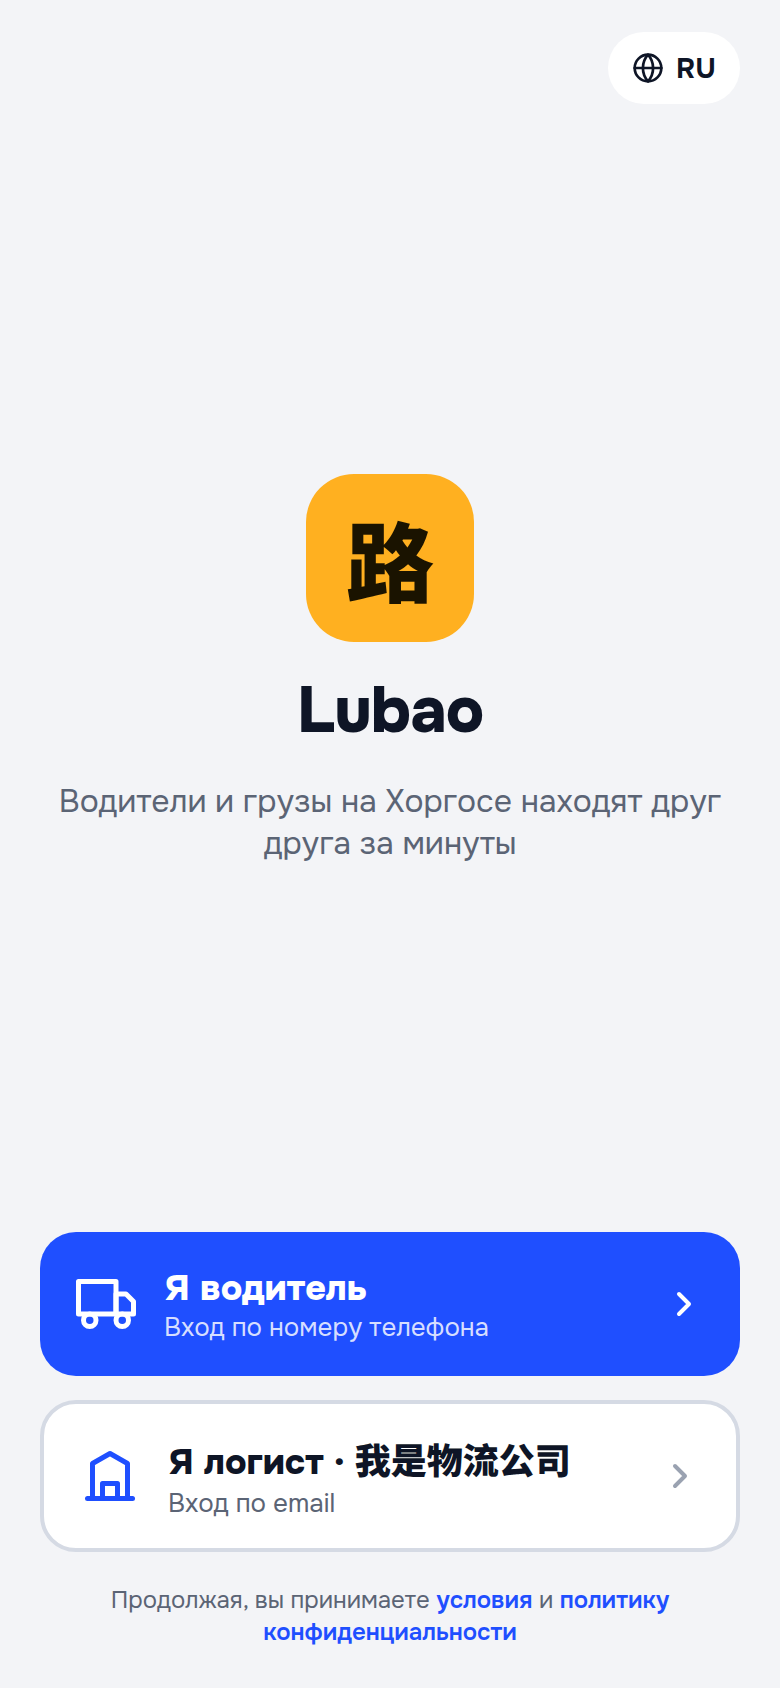
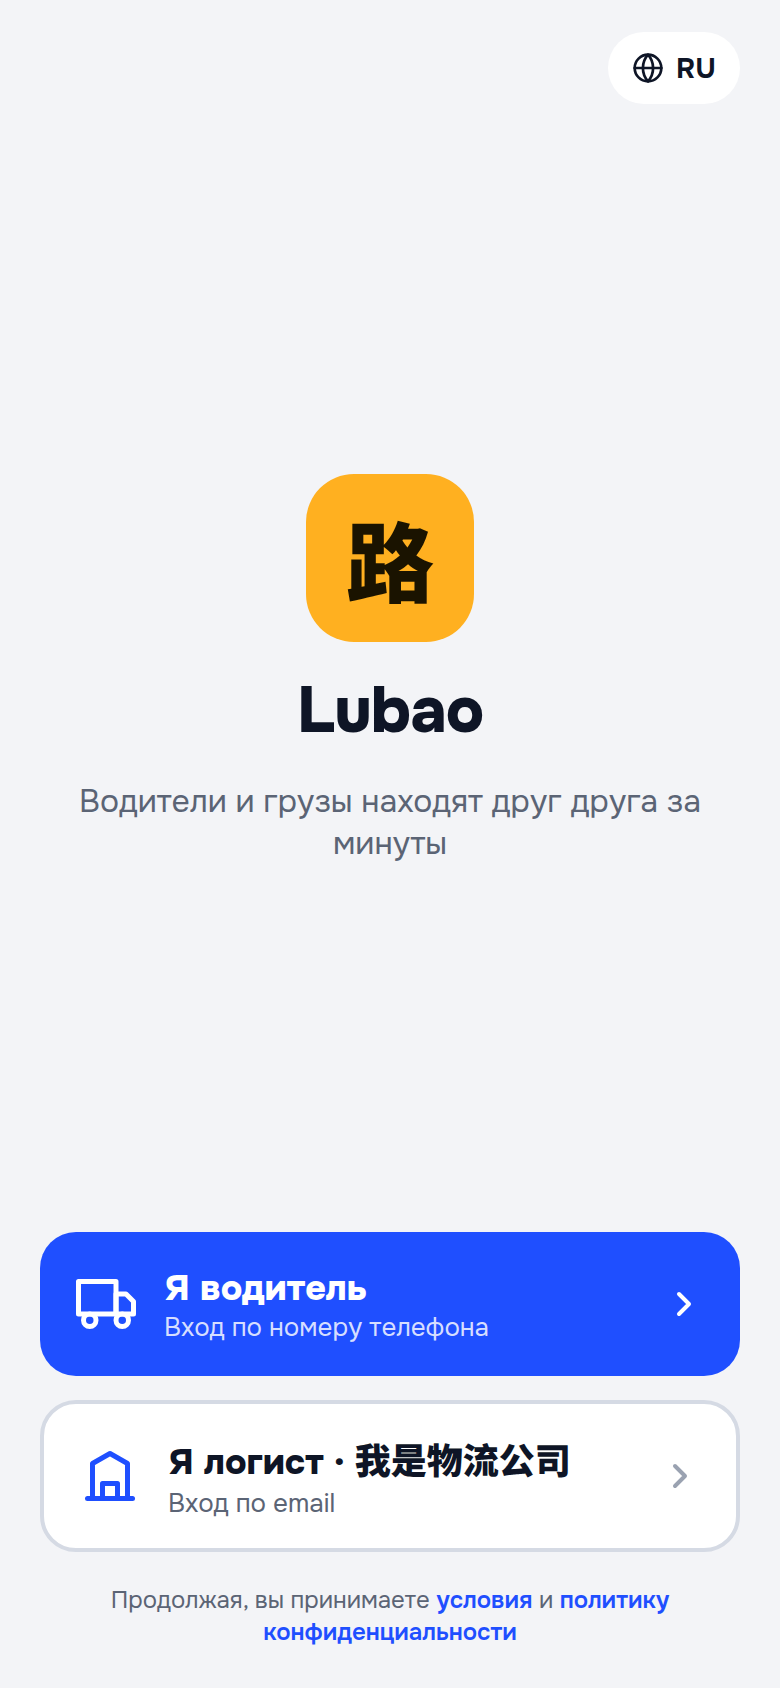
No hardcoded Khorgos in UI copy; drop company city from registration; update screens 09, 12
Claude-Session: https://claude.ai/code/session_01Ff8oopsZvobH79mMVJKnFv

Changed region(s): [[0.0615, 0.4621, 0.9231, 0.5237]]

diff --git a/docs/decisions.md b/docs/decisions.md
@@ -10,10 +10,15 @@
 Найдено: авторизация временная (X-User-Id без JWT) — критично, задача 006 идёт первой. Мелкие расхождения с решениями — задача 007.
 Гигиена репозитория: из Git убран кэш `backend/.pnpm-store` (17 тыс. файлов, 228 МБ), дубль `claude.md` (на Windows/macOS конфликтует с `CLAUDE.md`), lock-файл Claude Code; разрешены конфликты в `.gitignore` и `design/DESIGN.md`.
 
+**Не привязывать продукт к Хоргосу в текстах.**
+Скоро могут добавиться другие погранпереходы и точки. В интерфейсе, письмах и push не писать «Хоргос» текстом: название точки/города подставляется из справочника («Кто будет на {точка}», «Буду на {точка}»), общие тексты — без географии («Водители и грузы находят друг друга за минуты»). Хоргос остаётся только как данные в справочнике.
+
+**Город компании при регистрации не спрашиваем.** Регистрация логиста: имя, название компании, страна. Город — по желанию в профиле компании позже.
+
 **Вход и регистрация — компактно, одна точка входа.** (задачи 021, 022; эталоны 09–12)
 - Нет отдельных «Вход» и «Регистрация»: человек выбирает роль, вводит телефон/email, получает код. Известный — сразу внутри, новый — продолжает регистрацию.
 - Водитель: телефон и код на одном экране (код подставляется сам, вход после 4-й цифры) → 3 шага: имя + город → машина → страны.
-- **Логист — без пароля:** вход по 6-значному коду на email (как водитель по SMS). Новый логист после кода — один экран «Новая компания»: имя, название (русское подставляется), страна кнопками, город. Пароль только у админа.
+- **Логист — без пароля:** вход по 6-значному коду на email (как водитель по SMS). Новый логист после кода — один экран «Новая компания»: имя, название (русское подставляется), страна кнопками. Пароль только у админа.
 - Язык — плашка в углу каждого экрана входа; ссылки на условия и политику — на первом экране.
 Почему: меньше экранов и полей — больше людей доходят до конца; без пароля нечего забывать и восстанавливать.
 

diff --git a/docs/tasks/007-review-fixes.md b/docs/tasks/007-review-fixes.md
@@ -20,8 +20,10 @@
    - `packages/lubao_core/lib/src/widgets/loading_view.dart`
    Плюс сообщения ошибок бэкенда (например, лимиты SMS) — отдавать код ошибки, текст переводить на клиенте.
 5. **Выбор языка до входа** (решение 2026-10-04 «Смена языка»): сейчас на `role_select_screen.dart` и `company_login_screen.dart` языка нет. Добавить: при первом запуске — экран выбора Қазақша / Русский / 中文 / English (выбран язык телефона); на экранах выбора роли и входа — плашка языка в правом верхнем углу. После входа сохранить выбор в `users.language` на сервере; при входе на новом устройстве — брать язык с сервера.
-6. Удалить лишний `backend/prisma/migrations/20261004012125_driver_registration_docs/migration_lock.toml` (lock-файл должен быть один, в корне `migrations/`).
+6. **Убрать «Хоргос» из текстов** (решение 2026-10-04): в `app_*.arb` — `feedTitle` («Грузы в Хоргосе»), `driverHomeCheckInEmpty` («…в Хоргосе…»), `driversAtPointTitle` («Кто будет на Хоргосе») и все подобные: общий текст («Грузы», «Кто будет на точке») или подстановка названия точки из справочника через плейсхолдер (`{point}`), на всех 4 языках.
+7. Удалить лишний `backend/prisma/migrations/20261004012125_driver_registration_docs/migration_lock.toml` (lock-файл должен быть один, в корне `migrations/`).
 
 ## Готово, когда
 - Неверифицированный водитель не может подтвердить сделку даже прямым запросом к API.
 - `git grep -P "Text\(\s*'[^']*[А-Яа-я]" -- apps packages` ничего не находит.
+- `git grep -i -E "хоргос|қорғас|霍尔果斯|khorgos" -- packages/lubao_core/lib/l10n apps` ничего не находит.

diff --git a/docs/tasks/012-company-profile.md b/docs/tasks/012-company-profile.md
@@ -22,7 +22,7 @@
 | Название на языке страны | да | регистрация |
 | Название по-русски | да, но предзаполняется ИИ-переводом (модуль `translation`), можно поправить | регистрация |
 | Страна | да | регистрация |
-| Город | да, свободный ввод | регистрация |
+| Город | нет — по желанию в профиле компании | — |
 | Регистрационный номер: 统一社会信用代码 (18 символов, буквы/цифры) или БИН (12 цифр) — валидация формата по стране | да | перед первой публикацией |
 | Свидетельство о регистрации (файл) | да | перед первой публикацией |
 | Логотип, WeCom-бот | нет | когда угодно |
@@ -30,7 +30,7 @@
 
 Логист (личный профиль): имя — да (регистрация); email — да (вход); **телефон для водителей** — да, перед первой публикацией, любой код страны (+86, +7 …); WeChat ID — нет (рекомендуем); язык — автоматически.
 
-**Регистрация компании** (~1 минута): email, пароль, имя, название, страна, город.
+**Регистрация компании** (~1 минута): email + код, имя, название, страна.
 **Первое «Опубликовать груз»:** окно «Чтобы публиковать грузы» с недостающими полями (рег. номер, свидетельство, телефон) → после заполнения документ уходит на проверку, кнопка разблокируется после одобрения.
 
 ### Правила доступа

diff --git a/docs/tasks/022-logist-registration.md b/docs/tasks/022-logist-registration.md
@@ -13,7 +13,7 @@
 
 ### Путь А — «Создать компанию» (владелец, ~1 минута)
 1. Выбор роли «Я логист» → «Создать компанию» / «У меня приглашение».
-2. Email → код на почту (6 цифр, 10 минут, 5 попыток, лимиты как у SMS в 006). Email уже есть — вход. Новый — один экран: имя → компания: название на языке страны, название по-русски (предзаполняется ИИ-переводом — модуль `translation` из 010; пока его нет — транслитерация, можно поправить), страна, город (свободный ввод) → готово.
+2. Email → код на почту (6 цифр, 10 минут, 5 попыток, лимиты как у SMS в 006). Email уже есть — вход. Новый — один экран: имя → компания: название на языке страны, название по-русски (предзаполняется ИИ-переводом — модуль `translation` из 010; пока его нет — транслитерация, можно поправить), страна (кнопками: Китай / Казахстан / Другая) → готово. **Город не спрашиваем** — по желанию позже в профиле компании.
 3. Создаются `Company` (не проверена) + `CompanyMember` с ролью **владелец** + сессия (006). Владелец сразу в кабинете: видит водителей, пишет им; баннер «Публикация грузов откроется после проверки» (012).
 
 ### Путь Б — «У меня приглашение» (сотрудник)

diff --git a/CLAUDE.md b/CLAUDE.md
@@ -42,7 +42,7 @@ verification_documents, notification_settings, complaints, exchange_rates, audit
 subscriptions/payments (биллинг выключен флагом).
 
 ## Бизнес-правила (подробности и причины — docs/decisions.md)
-- Точка загрузки — справочник, на старте только Хоргос.
+- Точка загрузки — справочник, на старте только Хоргос. **В текстах интерфейса, push и писем «Хоргос» не писать** — подставлять название точки/города из справочника; общие тексты — без географии.
 - Водитель выбирает страны (или «любое»), домашний город, допуски. Лента грузов: домой (та же область, что и домашний город) → выбранные страны → остальные.
 - Цена груза обязательна, валюта USD/CNY/KZT, показ пересчёта по курсу НБ РК.
 - Телефон и чат доступны сразу. Каждое нажатие «Позвонить»/WhatsApp пишется в contact_events; через 2 часа push «Договорились?».
